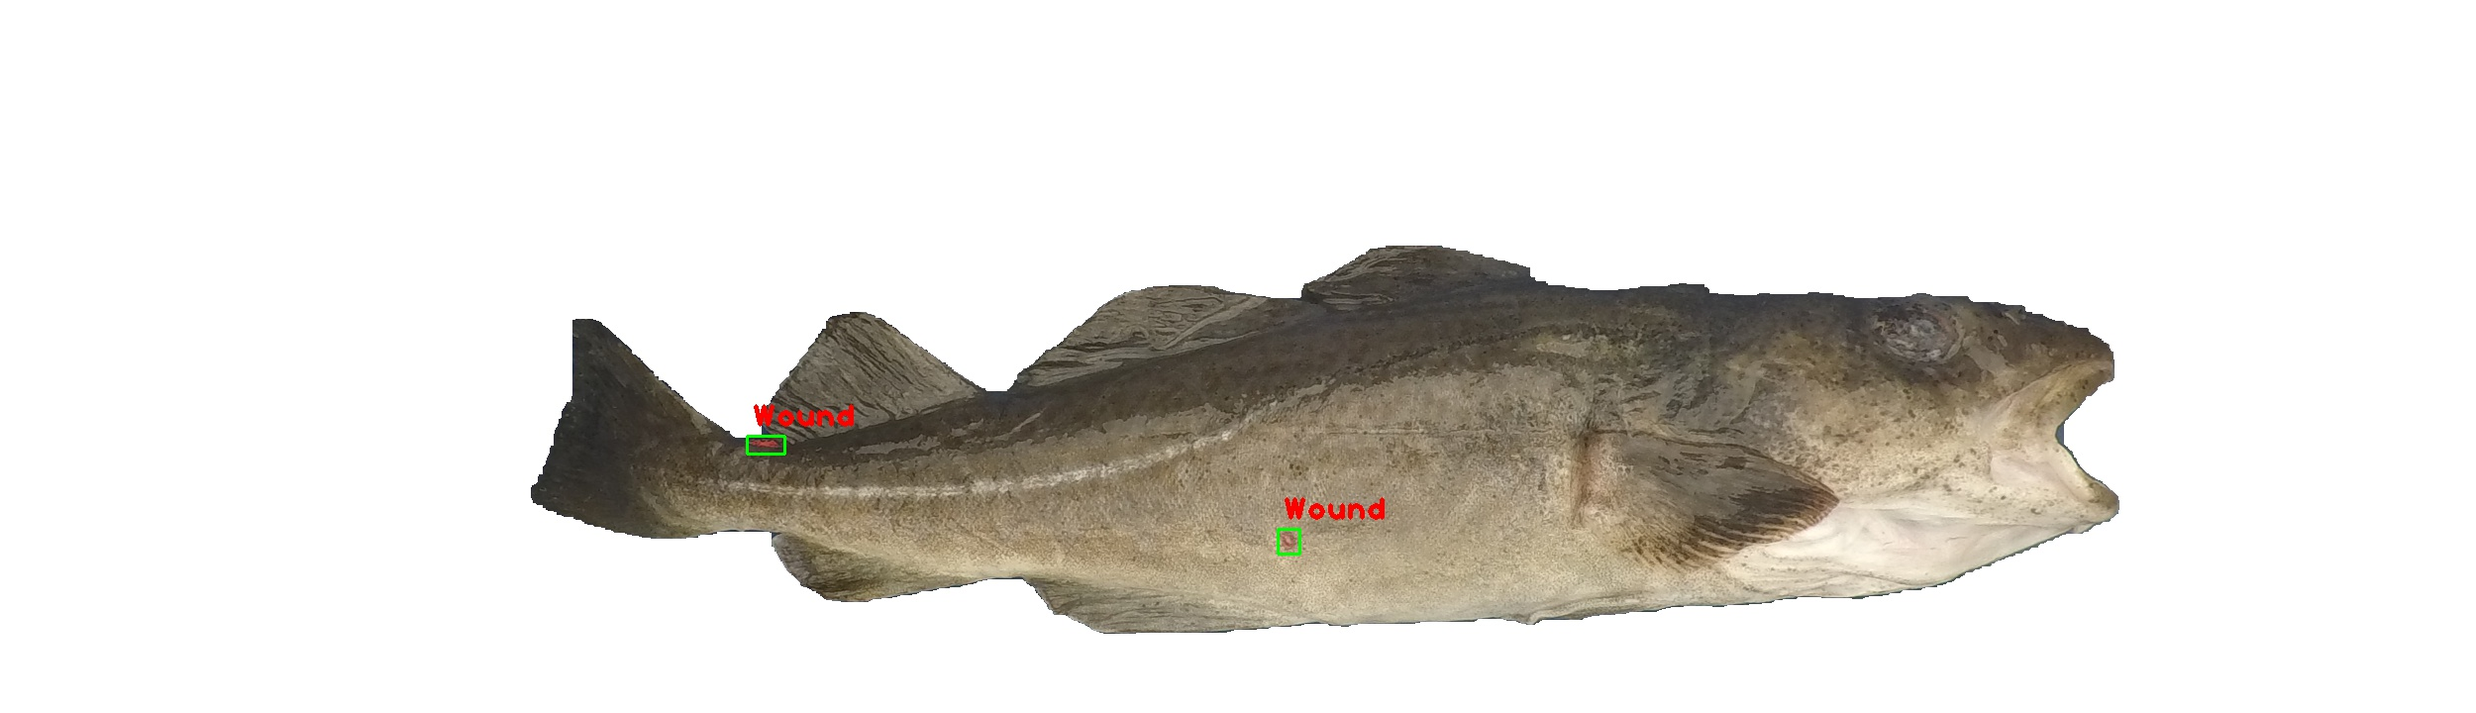
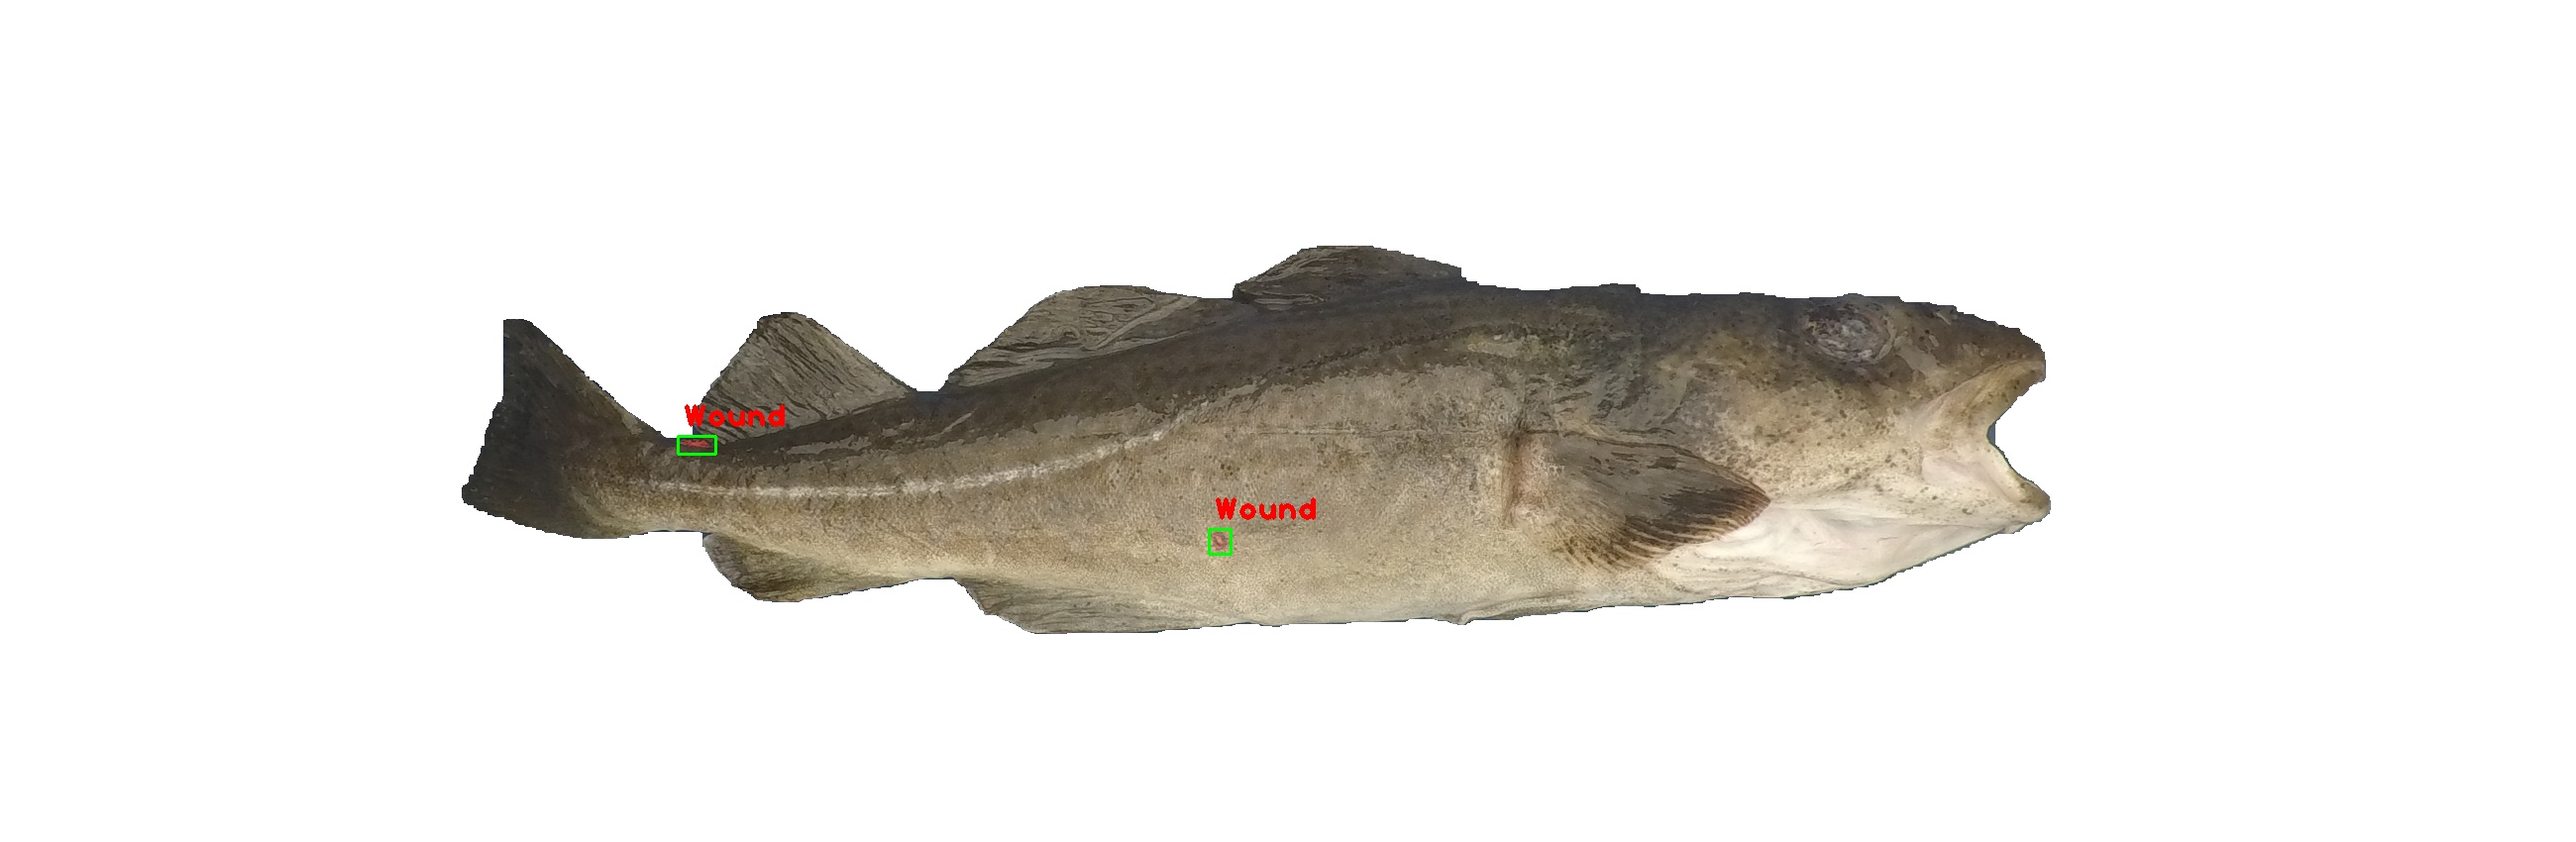
Save 3 kinds of images. 1: for manual imnspection 2: with clahe 3. with marks and tags

Changed region(s): [[0.156, 0.275, 0.8736, 0.8861]]

diff --git a/functions_openCV.py b/functions_openCV.py
@@ -98,7 +98,7 @@ def checkerboard_calibrateOPENCV(dimensions, images_distort, images_checkerboard
     return img_undst
 
 
-def detect_bloodspotsOPENCV(imgs, maskCod):
+def detect_woundspotsOPENCV(imgs, maskCod):
     '''
     Detect bloodspots, mark and tag them and find the coverage of bloodspots on hte cod
 
@@ -107,9 +107,9 @@ def detect_bloodspotsOPENCV(imgs, maskCod):
     :return: mask of blood spots, segmented blood spots, marked and tagged blood spots, coverage of blood spots on the
     cod
     '''
-    mask_bloodspots = []
+    mask_woundspots = []
     segmented_blodspots_imgs = []
-    marked_bloodspots_imgs = []
+    marked_woundspots_imgs = []
     percSpotCoverage = []
     count = 0
 
@@ -127,24 +127,24 @@ def detect_bloodspotsOPENCV(imgs, maskCod):
 
         spotcount = 0
 
-        marked_bloodspots_imgs.append(copy.copy(n))
+        marked_woundspots_imgs.append(copy.copy(n))
 
         # Threshold for blood spots
         frame_threshold1 = cv2.inRange(hsv_img, (0, 90, 90), (10, 255, 255))
 
         # Combining the masks
-        mask_bloodspots.append(frame_threshold1)
+        mask_woundspots.append(frame_threshold1)
 
         # Create kernels for morphology
         kernelClose = np.ones((30, 30), np.uint8)
 
         # Perform morphology
-        close = cv2.morphologyEx(mask_bloodspots[count], cv2.MORPH_CLOSE, kernelClose)
+        close = cv2.morphologyEx(mask_woundspots[count], cv2.MORPH_CLOSE, kernelClose)
 
-        # Perform bitwise operation to show bloodspots instead of BLOBS
+        # Perform bitwise operation to show woundspots instead of BLOBS
         segmented_blodspots_imgs.append(cv2.bitwise_and(n, n, mask=close))
 
-        # Make representation of BLOB / bloodspots
+        # Make representation of BLOB / woundspots
         # Find contours
         contours, _ = cv2.findContours(close, cv2.RETR_TREE, cv2.CHAIN_APPROX_SIMPLE)
 
@@ -155,10 +155,10 @@ def detect_bloodspotsOPENCV(imgs, maskCod):
             if area > 50:
                 x, y, w, h = cv2.boundingRect(cont)
                 # Create tag
-                cv2.putText(marked_bloodspots_imgs[count], 'Wound', (x, y - 15), cv2.FONT_HERSHEY_PLAIN, 2, (0, 0, 255),
+                cv2.putText(marked_woundspots_imgs[count], 'Wound', (x, y - 15), cv2.FONT_HERSHEY_PLAIN, 2, (0, 0, 255),
                             3)
                 # Draw green contour
-                cv2.rectangle(marked_bloodspots_imgs[count], (x - 5, y - 5), (x + w + 5, y + h + 5), (0, 255, 0), 2);
+                cv2.rectangle(marked_woundspots_imgs[count], (x - 5, y - 5), (x + w + 5, y + h + 5), (0, 255, 0), 2);
 
                 # Because the biologists have put a red tag on the cod, there will always be detected at least 1 blood
                 # spot
@@ -170,8 +170,7 @@ def detect_bloodspotsOPENCV(imgs, maskCod):
 
         count = count + 1
 
-    return mask_bloodspots, segmented_blodspots_imgs, marked_bloodspots_imgs, percSpotCoverage
-
+    return mask_woundspots, marked_woundspots_imgs, segmented_blodspots_imgs, percSpotCoverage
 
 def resizeImg(img, scale_percent):
     """
@@ -192,14 +191,6 @@ def resizeImg(img, scale_percent):
 
 
 def segment_codOPENCV(images, show_images=False):
-    """
-    Segments cods from the background.
-
-    :param images: An array of images of which to segment the cod from
-    :param show_images: To display the segmented cods or not
-    :return: an array of images with the cod segmented and masks of the cods
-    """
-
     print("Started segmenting the cod!")
 
     inRangeImages = []
@@ -210,7 +201,7 @@ def segment_codOPENCV(images, show_images=False):
         hsv_img = cv2.cvtColor(hsv_img, cv2.COLOR_BGR2HSV)
 
         # Create threshold for segmenting cod
-        mask = cv2.inRange(hsv_img, (101, 21, 65), (180, 255, 255))
+        mask = cv2.inRange(hsv_img, (100, 21, 65), (180, 255, 255))
 
         # Invert the mask
         mask = (255 - mask)
@@ -219,14 +210,16 @@ def segment_codOPENCV(images, show_images=False):
         # kernelOpen = np.ones((4, 4), np.uint8)
         # kernelClose = np.ones((7, 7), np.uint8)
 
-        kernelOpen = np.ones((9, 9), np.uint8)
-        kernelClose = np.ones((20, 20), np.uint8)
+        kernelOpen = np.ones((3, 3), np.uint8)
+        kernelClose = np.ones((5, 5), np.uint8)
 
         # Perform morphology
-        open1 = cv2.morphologyEx(mask, cv2.MORPH_OPEN, kernelOpen)
-        close2 = cv2.morphologyEx(open1, cv2.MORPH_CLOSE, kernelClose)
+        open1 = cv2.morphologyEx(mask, cv2.MORPH_OPEN, kernelOpen, iterations=3)
+        close2 = cv2.morphologyEx(open1, cv2.MORPH_CLOSE, kernelClose, iterations=5)
 
         segmented_cods = cv2.bitwise_and(n, n, mask=close2)
+
+        segmented_cods[close2 == 0] = (255, 255, 255)
 
         if show_images:
             cv2.imshow("res", segmented_cods)
@@ -242,7 +235,7 @@ def segment_codOPENCV(images, show_images=False):
     return inRangeImages, segmentedImages
 
 
-def showSteps(stepsList):
+def showSteps(stepsList, CLAHE=False):
     '''
     Create subplots showing main steps in algorithm
 
@@ -253,9 +246,10 @@ def showSteps(stepsList):
     img_rgb = cv2.cvtColor(stepsList[0], cv2.COLOR_BGR2RGB)
     img_undistorted_rgb = cv2.cvtColor(stepsList[1], cv2.COLOR_BGR2RGB)
     img_cropped_rgb = cv2.cvtColor(stepsList[2], cv2.COLOR_BGR2RGB)
-    img_segmented_codrgb = cv2.cvtColor(stepsList[3], cv2.COLOR_BGR2RGB)
-    bloodspotsrgb = cv2.cvtColor(stepsList[4], cv2.COLOR_BGR2RGB)
-    marked_bloodspotssrgb = cv2.cvtColor(stepsList[5], cv2.COLOR_BGR2RGB)
+    cod_CLAHErgb = cv2.cvtColor(stepsList[3], cv2.COLOR_BGR2RGB)
+    img_segmented_codrgb = cv2.cvtColor(stepsList[4], cv2.COLOR_BGR2RGB)
+    bloodspotsrgb = cv2.cvtColor(stepsList[5], cv2.COLOR_BGR2RGB)
+    marked_bloodspotssrgb = cv2.cvtColor(stepsList[6], cv2.COLOR_BGR2RGB)
 
     fig = plt.figure()
     fig.suptitle('Steps in algorithm', fontsize=16)
@@ -272,37 +266,43 @@ def showSteps(stepsList):
     plt.imshow(img_cropped_rgb)
     plt.title('ROI')
 
-    plt.subplot(3, 3, 4)
+    if CLAHE:
+        plt.subplot(3, 3, 4)
+        plt.imshow(cod_CLAHErgb)
+        plt.title('CLAHE')
+
+    plt.subplot(3, 3, 5)
     plt.imshow(img_segmented_codrgb)
     plt.title('Segmented cod')
 
-    plt.subplot(3, 3, 5)
+    plt.subplot(3, 3, 6)
     plt.imshow(bloodspotsrgb)
     plt.title('Blood spots segmented')
 
-    plt.subplot(3, 3, 6)
+    plt.subplot(3, 3, 7)
     plt.imshow(marked_bloodspotssrgb)
     plt.title('Blood spots tagged')
 
     plt.show()
 
 
-def save_imgOPENCV(imgs, path, originPathNameList):
+def save_imgOPENCV(imgs, path, originPathNameList, img_tag=None):
     '''
     Saves a list of images in the folder that the path is set to.
 
     :param originPathName: The path of the original path of the images that have been manipulated.
     :param imgs: A list of images.
     :param path: The path that the images will be saved to.
+    :param img_tag: Tag that is is added to the original image file name e.g. filname + img_tag = filnameimg_tag.JPG
     :return: None
     '''
 
     print('Saving images')
 
     count = 0
-    if len(imgs) > 1:
+    if len(imgs) > 0:
         for n in imgs:
-            cv2.imwrite(path + f"\\{originPathNameList[count]}_marked.JPG", n)
+            cv2.imwrite(path + f"\\{originPathNameList[count] + img_tag}.JPG", n)
             count = count + 1
 
     print('Done saving images')
@@ -327,7 +327,7 @@ def crop(images, y, x, height, width):
     return cropped_images
 
 
-def loadImages(path, edit_images, show_img=False, scaling_percentage=30):
+def loadImages(path, edit_images=False, show_img=False, scaling_percentage=30):
     """
     Loads all the images inside a file.
 
@@ -405,3 +405,64 @@ def saveCDI(img_list_fish, percSpotCoverage):
     f.close()
 
     print("Done writing the CDI!")
+
+
+def segment_cod_CLAHEOPENCV(images, show_images=False):
+    print("Started segmenting the cod!")
+
+    inRangeImages = []
+    segmentedImages = []
+
+    for n in images:
+        hsv_img = copy.copy(n)
+        hsv_img = cv2.cvtColor(hsv_img, cv2.COLOR_BGR2HSV)
+
+        # Create threshold for segmenting cod
+        mask = cv2.inRange(hsv_img, (99, 15, 30), (123, 255, 255))
+
+        # Invert the mask
+        mask = (255 - mask)
+
+        # Create kernels for morphology
+        # kernelOpen = np.ones((4, 4), np.uint8)
+        # kernelClose = np.ones((7, 7), np.uint8)
+
+        kernelOpen = np.ones((3, 3), np.uint8)
+        kernelClose = np.ones((5, 5), np.uint8)
+
+        # Perform morphology
+        open1 = cv2.morphologyEx(mask, cv2.MORPH_OPEN, kernelOpen, iterations=3)
+        close2 = cv2.morphologyEx(open1, cv2.MORPH_CLOSE, kernelClose, iterations=5)
+
+        segmented_cods = cv2.bitwise_and(n, n, mask=close2)
+
+        segmented_cods[close2 == 0] = (255, 255, 255)
+
+        if show_images:
+            cv2.imshow("res", segmented_cods)
+            cv2.imshow("mask", mask)
+            cv2.waitKey(0)
+
+        # add to lists
+        inRangeImages.append(mask)
+        segmentedImages.append(segmented_cods)
+
+    print("Finished segmenting the cod!")
+
+    return inRangeImages, segmentedImages
+
+
+def claheHSL(imgList, clipLimit, tileGridSize):
+    '''
+    Performs CLAHE on a list of images
+    '''
+    fiskClaheList = []
+    for img in imgList:
+        fiskHLS2 = cv2.cvtColor(img, cv2.COLOR_BGR2HLS)
+        LChannelHLS = fiskHLS2[:, :, 1]
+        clahe = cv2.createCLAHE(clipLimit=clipLimit, tileGridSize=tileGridSize)
+        claheLchannel1 = clahe.apply(LChannelHLS)
+        fiskHLS2[:, :, 1] = claheLchannel1
+        fiskClahe = cv2.cvtColor(fiskHLS2, cv2.COLOR_HLS2BGR)
+        fiskClaheList.append(fiskClahe)
+    return fiskClaheList

diff --git a/main.py b/main.py
@@ -1,12 +1,11 @@
 import sys
 import time
 
-import cv2
-
 import extremeImageProcessing as eip
 import functions as ft
 import functions_openCV as ftc
 import yamlLoader as yamlL
+from functions_openCV import claheHSL
 
 # Check if user have passed arguments
 try:
@@ -46,7 +45,7 @@ if run_own_functions == 'y':
     _, paths, clahe, cali_pa = yamlL.setup_parameters(yaml_data)
 
     # load Fish images
-    images, names = ft.loadImages(paths[0][1], False, False, 60)
+    images, img_list_fish = ft.loadImages(paths[0][1], False, False, 60)
     stepsList.append(images[showFish])
 
     # Calibrate camera and undistort images
@@ -70,8 +69,17 @@ if run_own_functions == 'y':
     stepsList.append(bloodspots[showFish])
     stepsList.append(marked_woundspots_imgs[showFish])
 
+    # Save marked wounds images in folder
+    # CLAHE images
+    ftc.save_imgOPENCV(segmented_images, 'fish_pics/output_images/manual_inspection', img_list_fish,
+                       "_MANUAL_INSPECTION")
+
+    # Marked images
+    ftc.save_imgOPENCV(marked_woundspots_imgs, 'fish_pics/output_images/marked_images', img_list_fish, "_marked")
+
+
     # Save a .txt file with CDI (catch damage index)
-    ftc.saveCDI(names, damage_percentage)
+    ftc.saveCDI(img_list_fish, damage_percentage)
 
     # If the user wanna try the experimental features of the program
     if experimental == 'e':
@@ -109,38 +117,45 @@ elif run_own_functions == "n":
     checkerboard_dimensions, paths, clahe, cali_pa = yamlL.setup_parameters(yaml_data)
 
     # Load Fish images
-    images, names, img_list_fish = ftc.loadImages(paths[0][1], False, False, 40)
+    images, img_list_fish, img_list_fish = ftc.loadImages(paths[0][1], edit_images=False,show_img=False, 40)
     stepsList.append(images[showFish])
 
     # Load checkerboard images
-    img_cali, names_cali, _ = ftc.loadImages(paths[1][1], False, False, 40)
+    img_cali, names_cali, _ = ftc.loadImages(paths[1][1], edit_images=False, show_img=False, 40)
 
     # Calibrate camera and undistort images
     fish_cali = ftc.checkerboard_calibrateOPENCV(checkerboard_dimensions, images, img_cali,
                                                  show_img=False, recalibrate=False)
     stepsList.append(fish_cali[showFish])
 
-    # Apply CLAHE
-    CLAHE = claheHSL(fish_cali, 2, (25, 25))
-    stepsList.append(CLAHE[showFish])
-
     # Crop to ROI
-    cropped_images = eip.crop(fish_cali, 710, 200, 720, 2500)
+    cropped_images = eip.crop(fish_cali, 710, 270, 850, 2600)
     stepsList.append(cropped_images[showFish])
-    cropped_images_CLAHE = eip.crop(CLAHE, 710, 200, 720, 2500)
+
+    # Apply CLAHE
+    CLAHE = claheHSL(cropped_images, 2, (25, 25))
+    stepsList.append(CLAHE[showFish])
 
     # Threshold to create a mask for each image
     mask_cod, segmented_images = ftc.segment_codOPENCV(cropped_images)
     stepsList.append(segmented_images[showFish])
+    mask_cod_CLAHE, img_segmented_cod_CLAHE = ftc.segment_cod_CLAHEOPENCV(CLAHE)
 
-    # Blood spot detection
-    mask_bloodspots, bloodspots, marked_woundspots_imgs, \
-    percSpotCoverage = ftc.detect_bloodspotsOPENCV(segmented_images, mask_cod)
-    stepsList.append(bloodspots[showFish])
+    # Wound detection
+    mask_bloodspots, marked_woundspots_imgs, wounds , \
+    percSpotCoverage = ftc.detect_woundspotsOPENCV(segmented_images, mask_cod)
+    stepsList.append(wounds[showFish])
     stepsList.append(marked_woundspots_imgs[showFish])
 
-    # Save marked blood spots images in folder
-    ftc.save_imgOPENCV(marked_woundspots_imgs, 'fish_pics/output_images', img_list_fish)
+    # Save marked wounds images in folder
+    # CLAHE images
+    ftc.save_imgOPENCV(segmented_images, 'fish_pics/output_images/manual_inspection', img_list_fish,
+                       "_MANUAL_INSPECTION")
+    # CLAHE images
+    ftc.save_imgOPENCV(img_segmented_cod_CLAHE, 'fish_pics/output_images/manual_inspection_CLAHE', img_list_fish,
+                       "_MANUAL_INSPECTION_CLAHE")
+    # Marked images
+    ftc.save_imgOPENCV(marked_woundspots_imgs, 'fish_pics/output_images/marked_images', img_list_fish, "_marked")
 
     # Save a .txt file with CDI (catch damage index)
     ftc.saveCDI(img_list_fish, percSpotCoverage)
@@ -150,4 +165,4 @@ elif run_own_functions == "n":
     print("Execution time for openCV version: ", "--- %s seconds ---" % (end_time - start_time))
 
     # Create subplots of main steps
-    ftc.showSteps(stepsList)
+    ftc.showSteps(stepsList, CLAHE=True)
